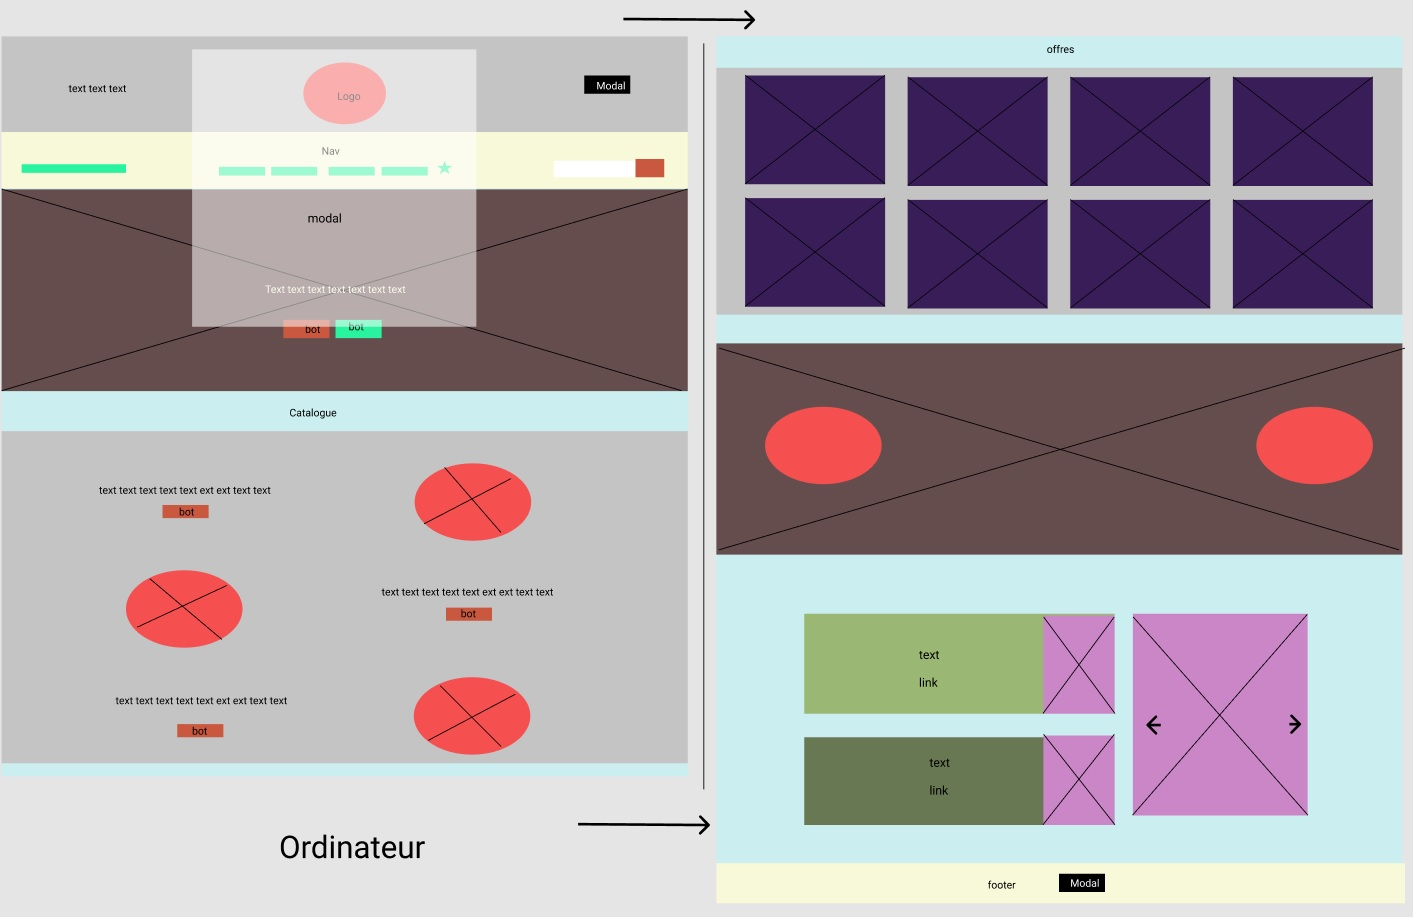
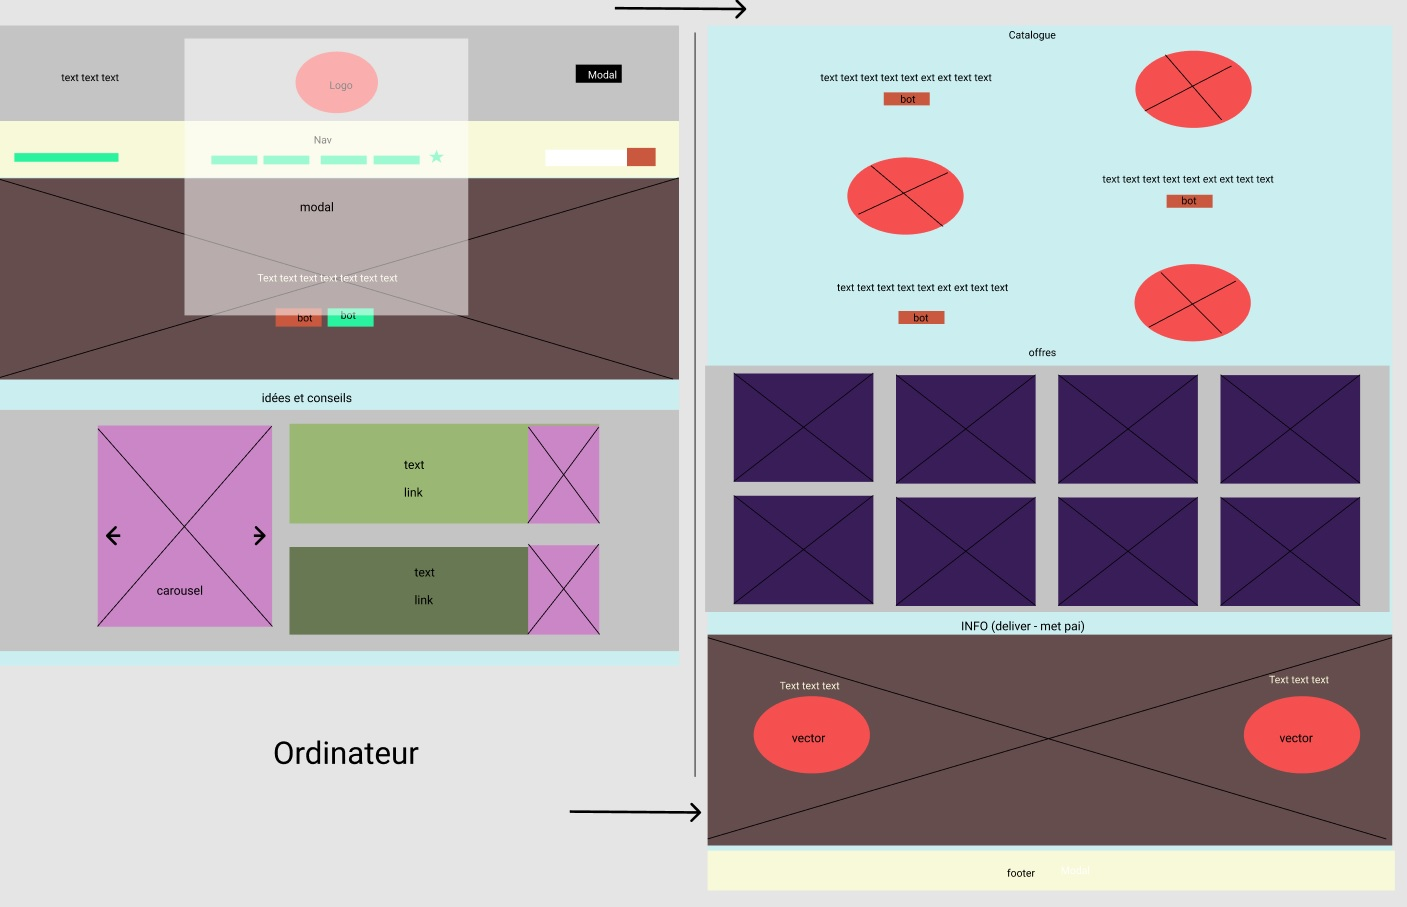
cucu

diff --git a/Evaluacion/reparacion2.html b/Evaluacion/reparacion2.html
@@ -271,6 +271,98 @@
       <!--fin BANNER-->
 
 
+       <!--consejos-->
+       <section class="final-mix container" id="mix">
+        <div class="row">      
+          <div class="col-12 col-md-6 col-lg-5">
+                
+            <!--CAROUSEL-->
+      <hr>
+      <h1 class="text-center" id="marg">Derniers articles</h1>
+      <div id="carouselExampleCaptions" class="carousel slide container" data-bs-ride="carousel">
+        <div class="carousel-indicators">
+          <button type="button" data-bs-target="#carouselExampleCaptions" data-bs-slide-to="0" class="active" aria-current="true" aria-label="Slide 1"></button>
+          <button type="button" data-bs-target="#carouselExampleCaptions" data-bs-slide-to="1" aria-label="Slide 2"></button>
+          <button type="button" data-bs-target="#carouselExampleCaptions" data-bs-slide-to="2" aria-label="Slide 3"></button>
+        </div>
+        <div class="carousel-inner cont-carousel contenedor">
+          <div class="carousel-item active">
+            <a href="#"><img src="media/articulo1.jpg" class="d-block w-100 img-car" alt="..."></a>
+            <div class="carousel-caption d-none d-md-block cucu">
+              <h1 class="text-dark titulo">First slide label</h1>
+              <p class="text-light">Description.</p>
+            </div>
+          </div>
+          <div class="carousel-item">
+            <a href="#"><img src="media/articulo2.jpg" class="d-block w-100 img-car" alt="..."></a>
+            <div class="carousel-caption d-none d-md-block">
+              <h5 class="text-light">Second slide label</h5>
+              <p class="text-light">Some representative placeholder content for the second slide.</p>
+            </div>
+          </div>
+          <div class="carousel-item">
+           <a href="#"><img src="media/articulo3.jpg" class="d-block w-100 img-car" alt="..."></a>
+            <div class="carousel-caption d-none d-md-block">
+              <h5 class="text-light">Third slide label</h5>
+              <p class="text-light">Some representative placeholder content for the third slide.</p>
+            </div>
+          </div>
+        </div>
+        <button class="carousel-control-prev" type="button" data-bs-target="#carouselExampleCaptions" data-bs-slide="prev">
+          <span class="carousel-control-prev-icon" aria-hidden="true"></span>
+          <span class="visually-hidden">Previous</span>
+        </button>
+        <button class="carousel-control-next" type="button" data-bs-target="#carouselExampleCaptions" data-bs-slide="next">
+          <span class="carousel-control-next-icon" aria-hidden="true"></span>
+          <span class="visually-hidden">Next</span>
+        </button>
+      </div>
+      <!--Fin CAROUSEL--> 
+          </div>
+          <!--Izquierda-->
+          <div class="col-12 col-md-6 col-lg-7">
+
+            <hr>
+            <h1 class="text-center  consejos">Conseils et idées</h1>
+            <div class="row g-0 border rounded overflow-hidden flex-md-row mb-4 shadow-sm h-md-250 position-relative">
+              <div class="col p-4 d-flex flex-column position-static">
+                <strong class="d-inline-block mb-2 text-primary">World</strong>
+                <h3 class="mb-0">Featured post</h3>
+                <div class="mb-1 text-muted">Nov 12</div>
+                <p class="card-text mb-auto">This is a wider card with supporting text below as a natural lead-in to additional content.</p>
+                <a href="#" class="stretched-link">Continue reading</a>
+              </div>
+                <div class="col-auto d-none d-lg-block">
+                 <img src="media/azul.jpg"  class="img-fluid" width="350" alt="">
+
+                </div>
+            </div>
+             
+            <div class="row g-0 border rounded overflow-hidden flex-md-row mb-4 shadow-sm h-md-250 position-relative">
+              <div class="col p-4 d-flex flex-column position-static">
+                <strong class="d-inline-block mb-2 text-primary">World</strong>
+                <h3 class="mb-0">Featured post</h3>
+                <div class="mb-1 text-muted">Nov 12</div>
+                <p class="card-text mb-auto">This is a wider card with supporting text below as a natural lead-in to additional content.</p>
+                <a href="#" class="stretched-link">Continue reading</a>
+              </div>
+              <div class="col-auto d-none d-lg-block">
+                <img src="media/azul.jpg"  class="img-fluid" width="350" alt="">
+      
+              </div>
+            </div>
+  
+      
+      
+          </div>
+      
+      </div>  
+      </section>
+      <!--Fin consejos-->
+
+
+
+
       <!--CATALOGUE-->
       <div class="container marketing">
         <h1 class="text-center titulo" id="catalogue">Catalogue</h1>
@@ -514,95 +606,7 @@
         </div>     
       <!--fin parallax-->
 
-      <!--consejos-->
-       <section class="final-mix container" id="mix">
-        <div class="row">
-       
-          <div class="col-12 col-md-6 col-lg-8">
-                
-            <hr>
-            <h1 class="text-center  consejos">Conseils et idées</h1>
-            <div class="row g-0 border rounded overflow-hidden flex-md-row mb-4 shadow-sm h-md-250 position-relative">
-              <div class="col p-4 d-flex flex-column position-static">
-                <strong class="d-inline-block mb-2 text-primary">World</strong>
-                <h3 class="mb-0">Featured post</h3>
-                <div class="mb-1 text-muted">Nov 12</div>
-                <p class="card-text mb-auto">This is a wider card with supporting text below as a natural lead-in to additional content.</p>
-                <a href="#" class="stretched-link">Continue reading</a>
-              </div>
-                <div class="col-auto d-none d-lg-block">
-                 <img src="media/azul.jpg"  class="img-fluid" width="350" alt="">
-
-                </div>
-            </div>
-             
-            <div class="row g-0 border rounded overflow-hidden flex-md-row mb-4 shadow-sm h-md-250 position-relative">
-              <div class="col p-4 d-flex flex-column position-static">
-                <strong class="d-inline-block mb-2 text-primary">World</strong>
-                <h3 class="mb-0">Featured post</h3>
-                <div class="mb-1 text-muted">Nov 12</div>
-                <p class="card-text mb-auto">This is a wider card with supporting text below as a natural lead-in to additional content.</p>
-                <a href="#" class="stretched-link">Continue reading</a>
-              </div>
-              <div class="col-auto d-none d-lg-block">
-                <img src="media/azul.jpg"  class="img-fluid" width="350" alt="">
-      
-              </div>
-            </div>
-  
-  
-          </div>
-          <!--Izquierda-->
-          <div class="col-12 col-md-6 col-lg-4">
-            
-      <!--CAROUSEL-->
-      <hr>
-      <h1 class="text-center" id="marg">Derniers articles</h1>
-      <div id="carouselExampleCaptions" class="carousel slide container" data-bs-ride="carousel">
-        <div class="carousel-indicators">
-          <button type="button" data-bs-target="#carouselExampleCaptions" data-bs-slide-to="0" class="active" aria-current="true" aria-label="Slide 1"></button>
-          <button type="button" data-bs-target="#carouselExampleCaptions" data-bs-slide-to="1" aria-label="Slide 2"></button>
-          <button type="button" data-bs-target="#carouselExampleCaptions" data-bs-slide-to="2" aria-label="Slide 3"></button>
-        </div>
-        <div class="carousel-inner cont-carousel contenedor">
-          <div class="carousel-item active">
-            <a href="#"><img src="media/articulo1.jpg" class="d-block w-100" alt="..."></a>
-            <div class="carousel-caption d-none d-md-block">
-              <h1 class="text-light titulo">First slide label</h1>
-              <p class="text-light">Description.</p>
-            </div>
-          </div>
-          <div class="carousel-item">
-            <a href="#"><img src="media/articulo2.jpg" class="d-block w-100" alt="..."></a>
-            <div class="carousel-caption d-none d-md-block">
-              <h5 class="text-light">Second slide label</h5>
-              <p class="text-light">Some representative placeholder content for the second slide.</p>
-            </div>
-          </div>
-          <div class="carousel-item">
-           <a href="#"><img src="media/articulo3.jpg" class="d-block w-100" alt="..."></a>
-            <div class="carousel-caption d-none d-md-block">
-              <h5 class="text-light">Third slide label</h5>
-              <p class="text-light">Some representative placeholder content for the third slide.</p>
-            </div>
-          </div>
-        </div>
-        <button class="carousel-control-prev" type="button" data-bs-target="#carouselExampleCaptions" data-bs-slide="prev">
-          <span class="carousel-control-prev-icon" aria-hidden="true"></span>
-          <span class="visually-hidden">Previous</span>
-        </button>
-        <button class="carousel-control-next" type="button" data-bs-target="#carouselExampleCaptions" data-bs-slide="next">
-          <span class="carousel-control-next-icon" aria-hidden="true"></span>
-          <span class="visually-hidden">Next</span>
-        </button>
-      </div>
-      <!--CAROUSEL-->
-      
-          </div>
-      
-      </div>  
-      </section>
-      <!--Fin consejos-->
+     
 
     </div>
     <br>

diff --git a/Evaluacion/css/eval.css b/Evaluacion/css/eval.css
@@ -115,8 +115,11 @@
 }
 
 .contenedor {
-  height: 100% !important;
+  height: 100% !important; 
+  
 }
+
+
 
 .fondo {
   margin-top: 5%;
@@ -131,6 +134,9 @@
   color: #ef5350;
   background-color: rgba(0, 0, 0, 0.2);
 }
+
+
+
 
 
 
